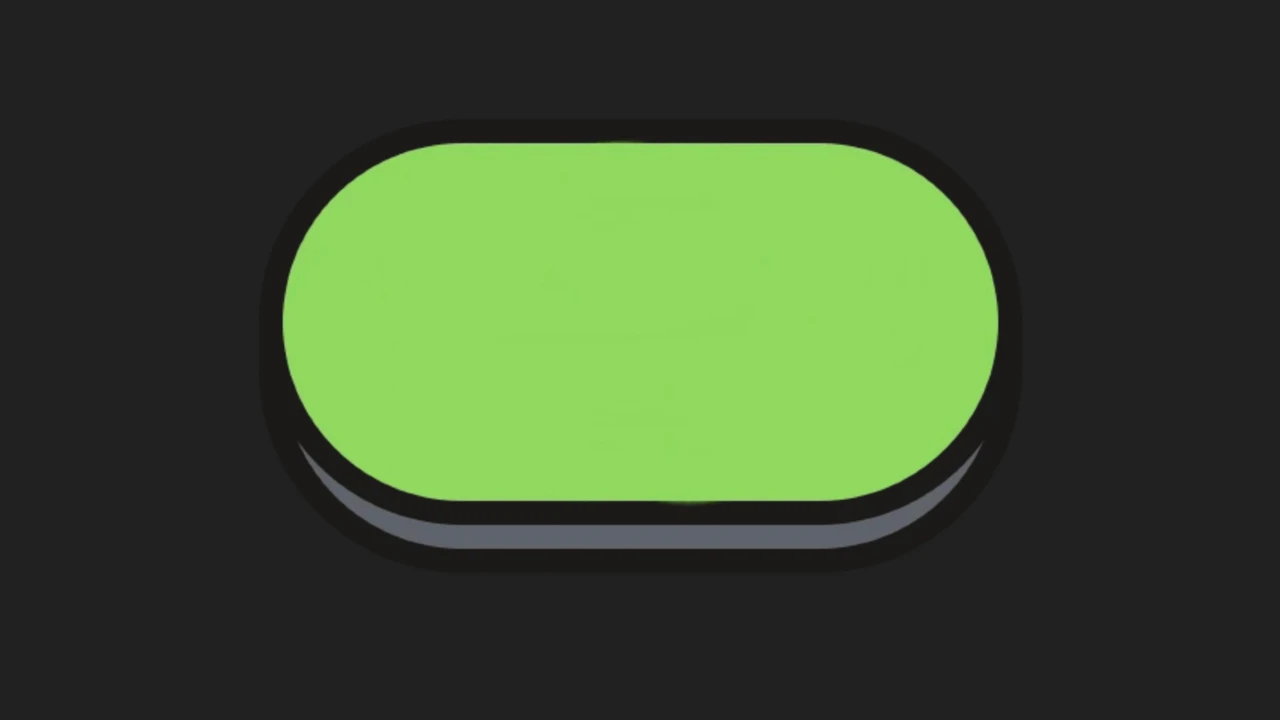
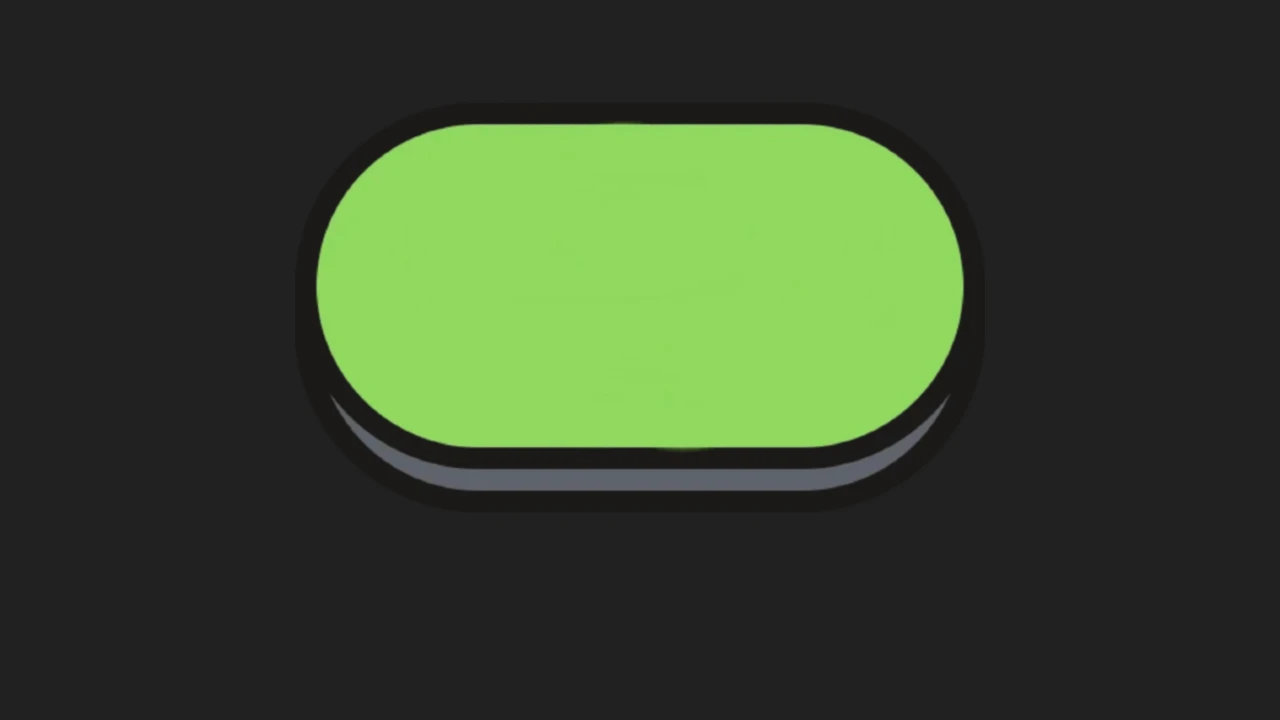
Renaming table img file

Changed region(s): [[0.2188, 0.2444, 0.7812, 0.7639], [0.2812, 0.1528, 0.7188, 0.2444]]

diff --git a/src/components/Room/Room.css b/src/components/Room/Room.css
@@ -8,7 +8,7 @@
     width: 1280px;
     height: 720px;
     text-align: center;
-    background-image: url('../../pictures/poker_background2.webp');
+    background-image: url('../../pictures/poker_background.webp');
     position: relative;
     top: 50%;
     left: 50%;
